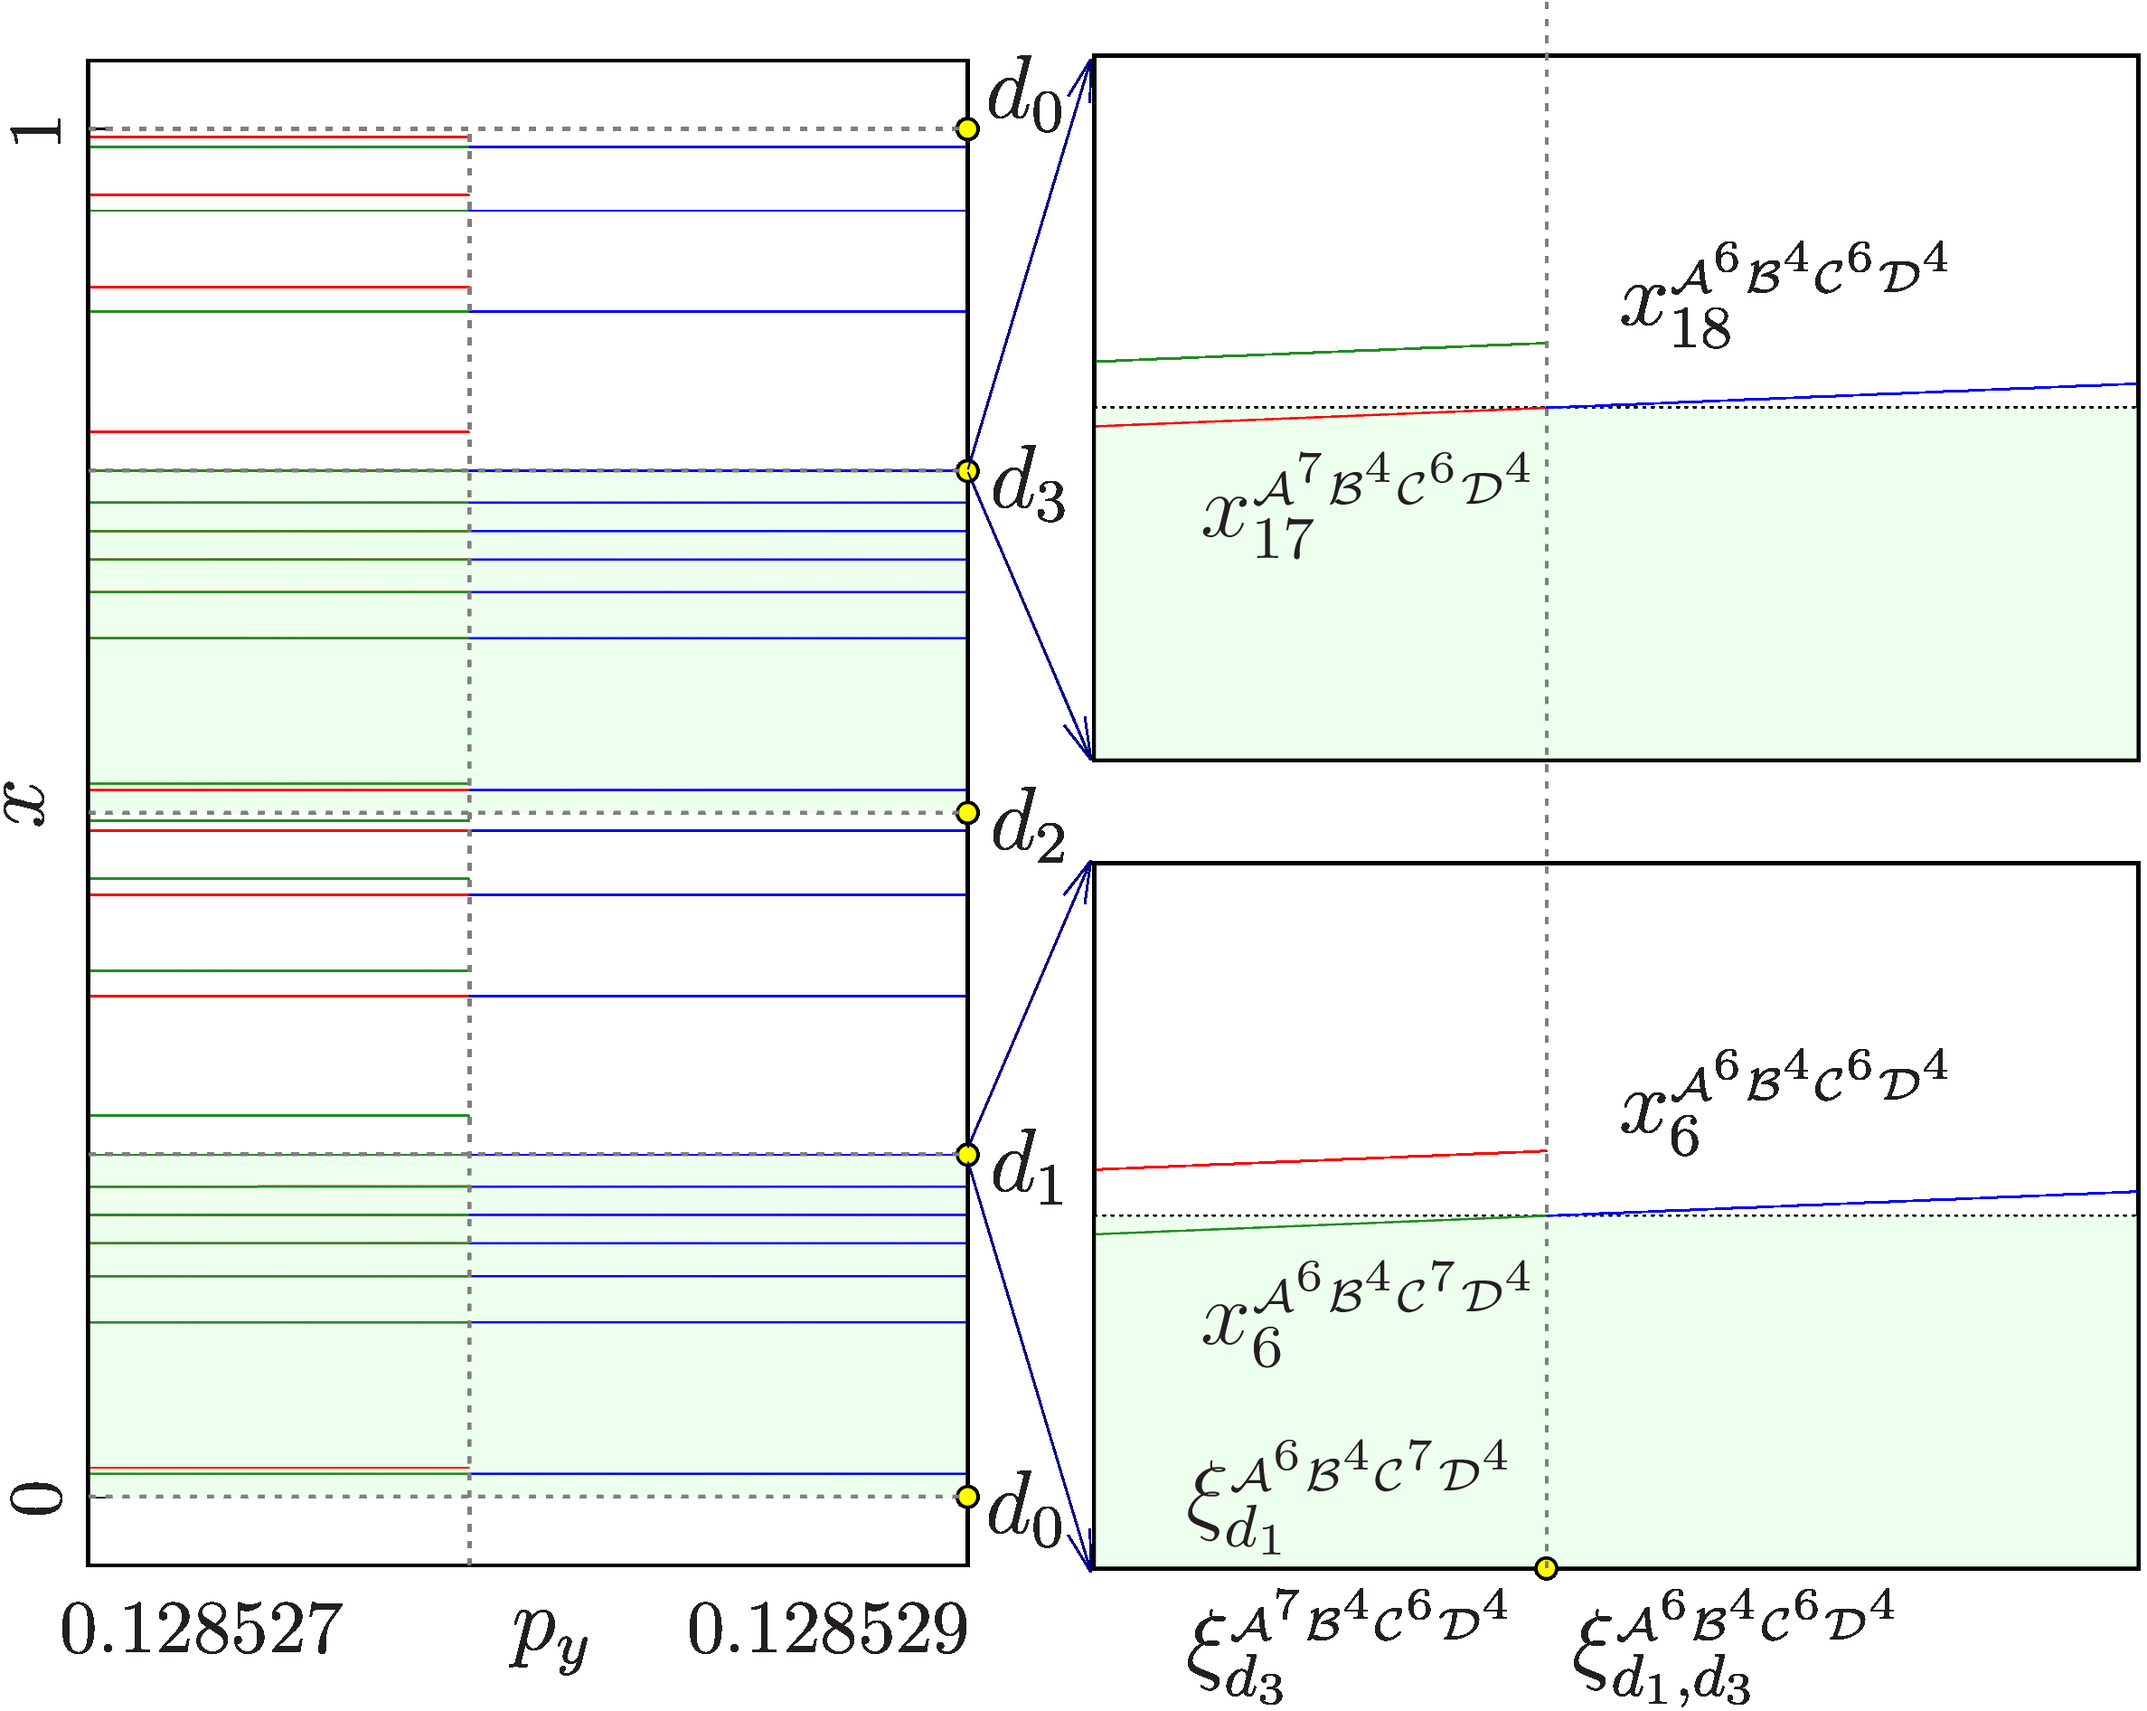
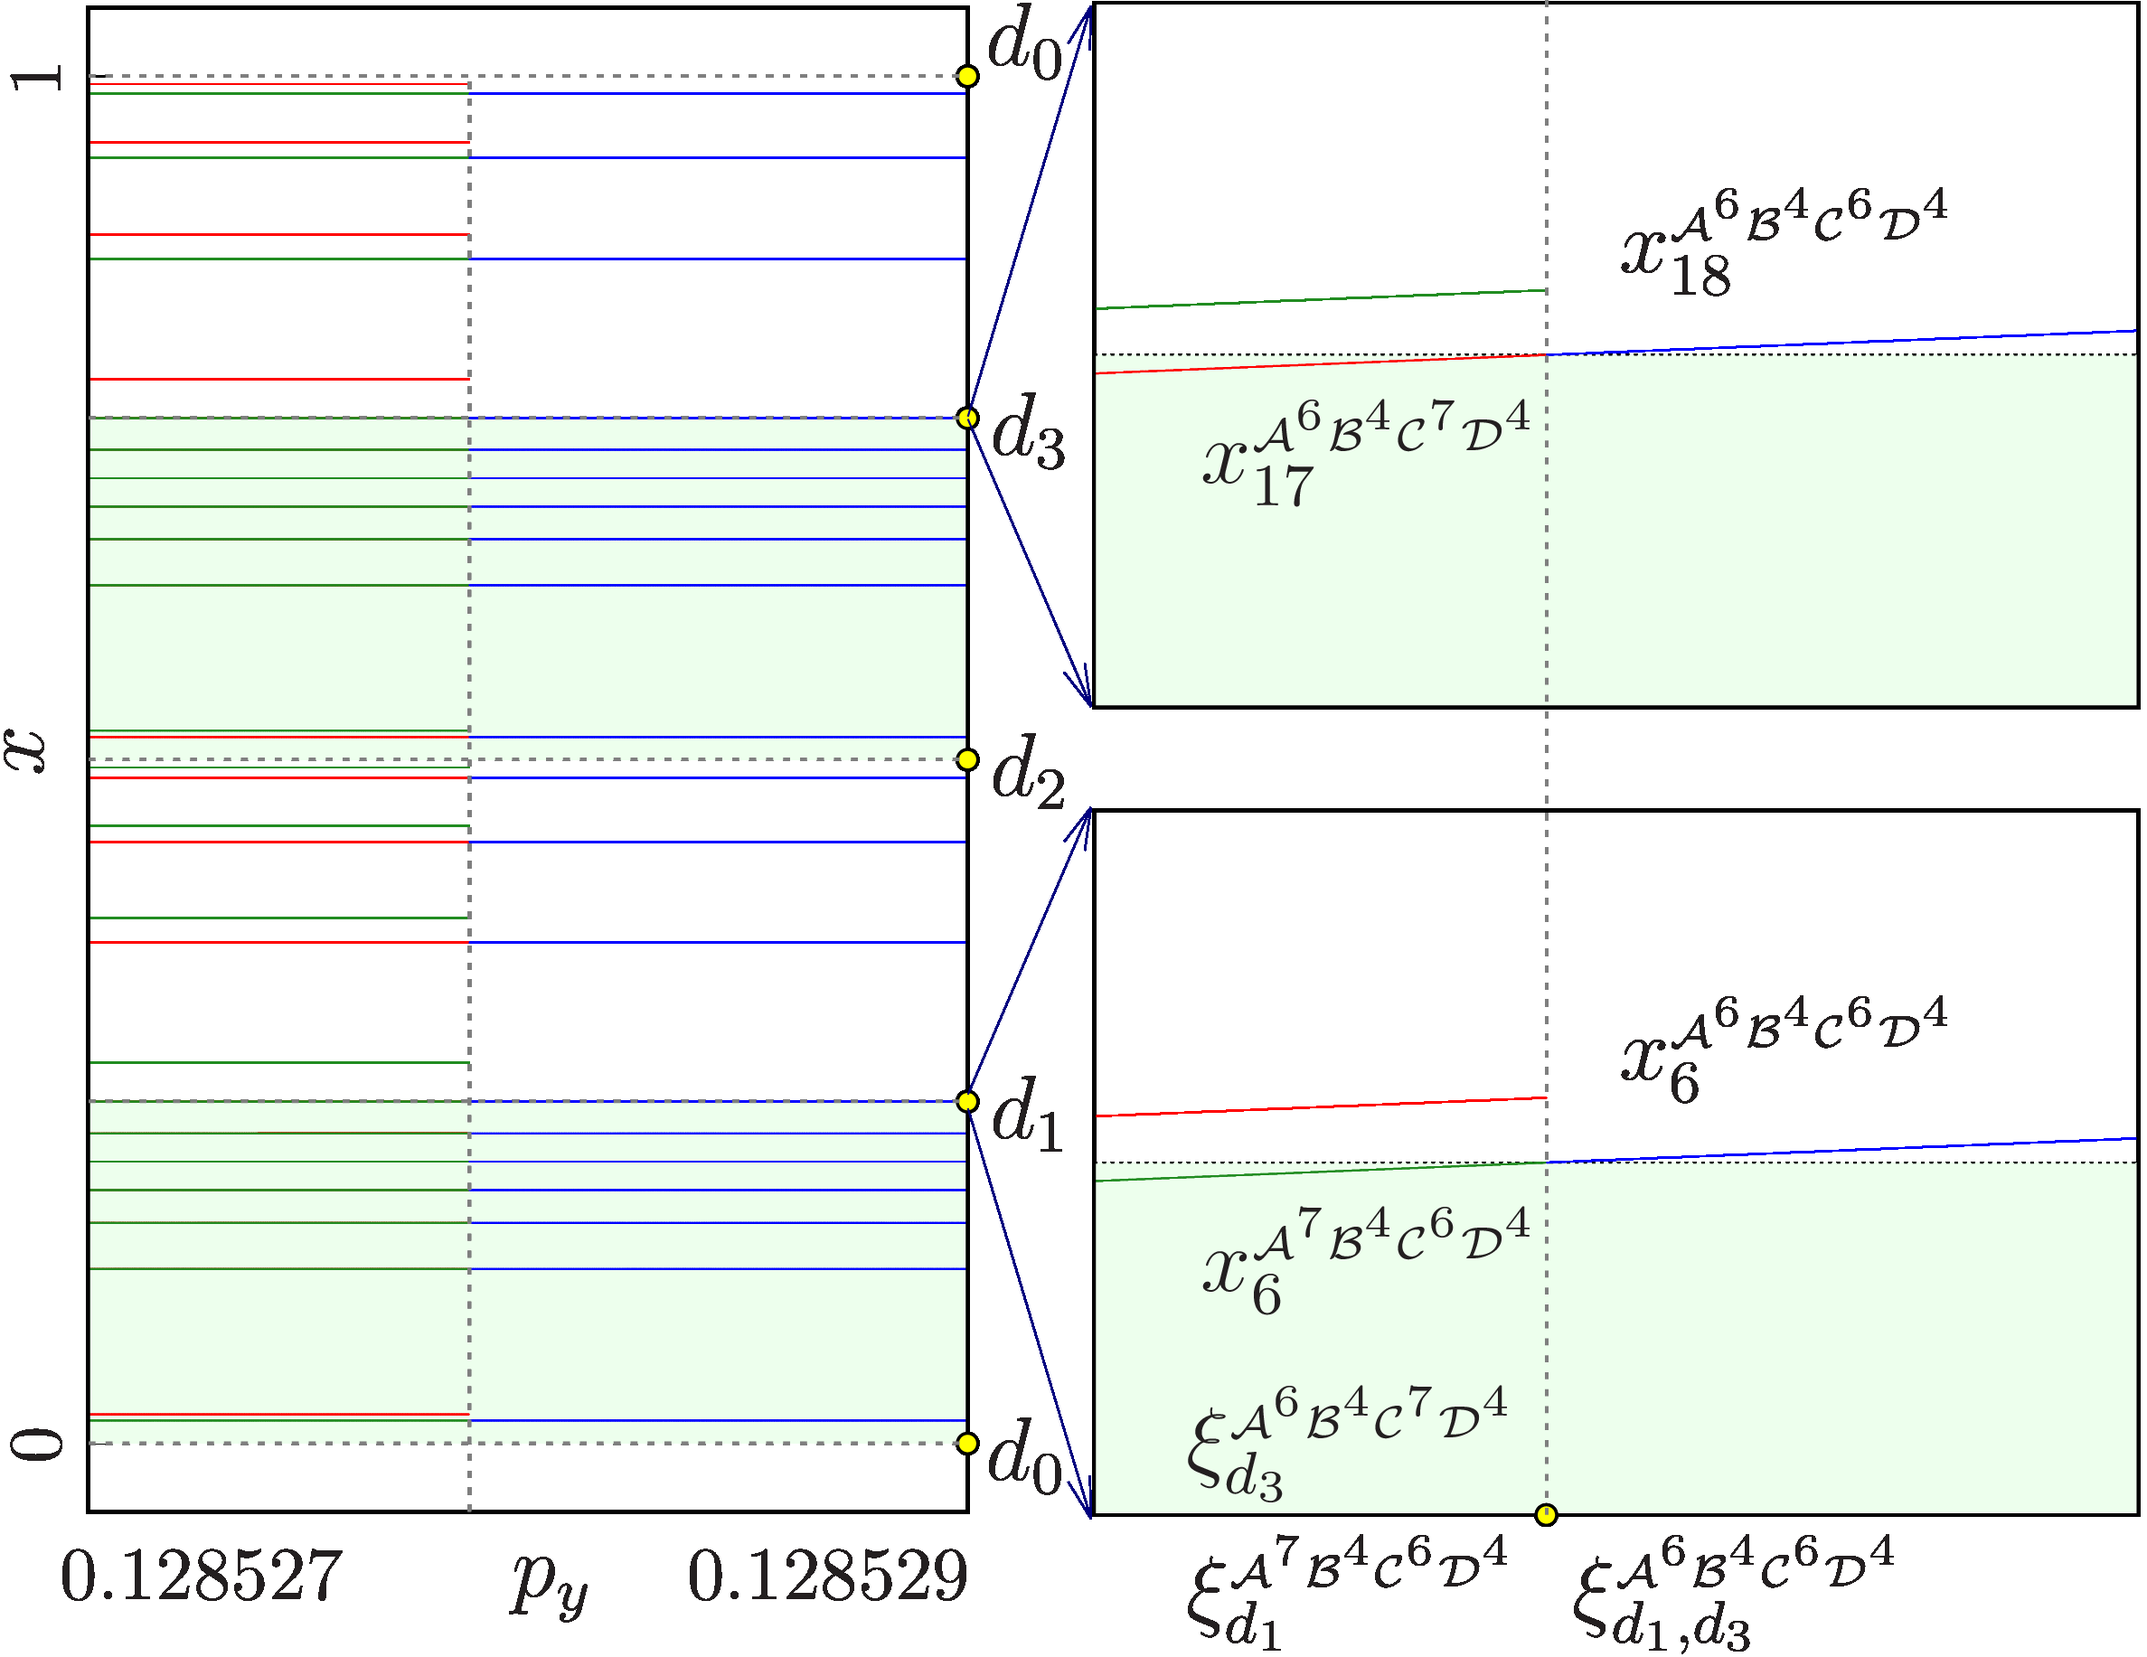
start writing about appearing horizontal period adding

diff --git a/Report/Sections/70_Adding/12_app_add.tex b/Report/Sections/70_Adding/12_app_add.tex
@@ -7,13 +7,45 @@
     }
     \subfloat[Point $A$]{
         \includegraphics[width=.3 \textwidth]{62_MinimalRepr_Adding/Cob_2.8_add_hor_A/Manual/result.png}
+        \label{fig:minrep.add.app.hor.A}
     }
     \subfloat[Point $B$]{B}
-    \caption{bla}
+    \caption{Appearance of the horizontal period-adding cascade}
 \end{figure}
+
+At point $A$ there is space between the two ``type A'' parameter regions $P_{11}^{4}$ and $P_{10}^{4}$, which overlap at point $B$.
+This space opens up more as we change the parameters as described in \Cref{sec:minrep.adding.disapp.typeB}.
+Here will be the horizontal period adding region.
+\Cref{fig:minrep.add.app.hor.A} shows the cobweb diagram at this point.
+The two coexisting cycles $\Cycle{\A^7\B^4\C^6\D^4}$ and $\Cycle{\A^6\B^4\C^7\D^4}$ are asymmetrical like in ``type B'' parameter regions.
+But they are different from ``type B'' cycles because they are not of the form $\Cycle{\A^a\B^b\C^{a-1}\D^{b+1}}$ and $\Cycle{\A^{a-1}\B^{b+1}\C^a\D^b}$, but of the form $\Cycle{\A^a\B^b\C^{a-1}\D^b}$ and $\Cycle{\A^{a-1}\B^b\C^a\D^b}$.
+
+If we interpret these cycles in the context of the halved model, this is the first stage of the period-adding cascade.
+The two ``type A'' cycles $P_{11}^4$ and $P_{10}^4$ are $\Cycle{\L^7\R^4}$ and $\Cycle{\L^6\R^4}$ in the context of the halved model and the cycles at point $A$ are both $\Cycle{\L^7\R^4\L^6\R^4} \equiv \Cycle{\L^6\R^4\L^7\R^4}$ in the context of the halved model.
+
+In \Cref{sec:minrep.adding.disapp.typeB} we noted, that the asymmetry of the ``type B'' cycles is caused by the negative slope of the function at the left border of branches $f_\A$ and $f_\C$.
+Since this maps the cycle that starts further left to the right side of the other cycle.
+\todo{
+    explain better: diff number of points on branches B and D each (type B) therefore reordering necessary for asymm.
+    here same number of points so there may be no reordering for asymm
+}
+This is not the case for the cycles at this point, both cycles start at a point on the branch $f_\A$ with a positive slope and therefore keep the same order.
+\todo{positive slope important for period adding!}
 
 \begin{figure}
     \centering
     \includegraphics[width=.7 \textwidth]{62_MinimalRepr_Adding/1D_Bif_2.8_add_hor_AU/Manual/result.png}
-    \caption{bla}
+    \caption{Bifurcation diagram at the upper boundary of $P_{10}^4 \oplus P_{11}^4$}
+    \label{fig:minrep.add.app.hor.bif.AU}
 \end{figure}
+
+
+\Cref{fig:minrep.add.app.hor.bif.AU} show the bifurcations at the top of the parameter region of the first period-adding stage.
+The bifurcation of the ``type A'' cycle $P_{10}^4 \equiv \A^6\B^4\C^6\D^4$ is as expected a collision with borders $d_1$ and $d_3$ at the same time from the right side, $\BCB_{d_1, d_3}^{\A^6\B^4\C^6\D^4, r}$.
+This was described in \Cref{sec:minrep.bif.U}.
+The bifurcations of the asymmetrical cycles are very similar to the bifurcations of the ``type B'' cycles in that section.
+The cycle with more points on branch $f_\A$, $\Cycle{\A^5\B^3\C^4\D^4}$, collided with the border $d_1$ and its twin, $\Cycle{\A^4\B^4\C^5\D^3}$, collided with the border $d_3$.
+Both collide at the same time and from the left.
+Here, the cycle with more points on branch $f_\A$, $\Cycle{\A^7\B^4\C^6\D^4}$, also collides with the border $d_1$ and its twin, $\Cycle{\A^6\B^4\C^7\D^4}$, collides with the border $d_3$.
+Both collisions happen at the same time from the left.
+Therefore the bifurcations are $\BCB_{d_1}^{\A^7\B^4\C^6\D^4, l}$ and $\BCB_{d_1}^{\A^6\B^4\C^7\D^4, l}$.

diff --git a/Report/Sections/60_MinimalRepr/50_bifurcations.tex b/Report/Sections/60_MinimalRepr/50_bifurcations.tex
@@ -149,6 +149,7 @@ Therefore, we only need to describe the 4 boundaries of this ``type B'' paramete
 %The boundaries are enumerated as $F_{16}^\uparrow, F_{16}^\rightarrow, F_{16}^\downarrow,$ and $F_{16}^\leftarrow$.
 
 \subsubsection{The Boundary $F_{16}^\uparrow$}
+\label{sec:minrep.bif.U}
 
 \Cref{fig:final.bifurcation.F.up} shows the bifurcation diagram of the first considered border, $F_{16}^\uparrow$.
 The two existing stable cycles at the beginning are drawn in different colors to differentiate them.
@@ -177,6 +178,7 @@ The bifurcation is denoted as $\BCB_{d_1, d_3}^{\A^4\B^4\C^4\D^4}$.
 \end{figure}
 
 \subsubsection{The Boundary $F_{16}^\downarrow$}
+\label{sec:minrep.bif.D}
 
 At the lower boundary $F_{16}^\downarrow$, the two cycles $\Cycle{\A^5\B^3\C^4\D^4}$ and $\Cycle{\A^4\B^4\C^5\D^3}$ also collide with the borders $d_1$ and $d_3$, this time from above rather than from below.
 But while the cycle $\Cycle{\A^5\B^5\C^4\D^4}$ collided with the border $d_1$ at the upper boundary, it now collides with the border $d_3$.
@@ -203,6 +205,7 @@ The cycles collide with the same borders, but the side from which they collide a
 \end{figure}
 
 \subsubsection{The Boundary $F_{16}^\rightarrow$}
+\label{sec:minrep.bif.R}
 
 Now we will take a look at the horizontal boundaries of this ``type B'' parameter region.
 At the right boundary $F_{16}^\rightarrow$, the two cycles $\Cycle{\A^5\B^3\C^4\D^4}$ and $\Cycle{\A^4\B^4\C^5\D^3}$ collide with the borders $d_0$ and $d_2$ from above.
@@ -225,6 +228,7 @@ This bifurcation is denoted as $\BCB_{d_0, d_2}^{\A^5\B^4\C^5\D^4}$.
 \end{figure}
 
 \subsubsection{The Boundary $F_{16}^\leftarrow$}
+\label{sec:minrep.bif.L}
 
 At the left boundary $F_{16}^\leftarrow$, the two cycles $\Cycle{\A^5\B^3\C^4\D^4}$ and $\Cycle{\A^4\B^4\C^5\D^3}$ collide with the same borders as before, but this time from below.
 The point $x_{7}^{\A^4\B^4\B^5\D^3}$, which is on branch $f_{\B}$, collides with $d_2$ while the point $x_{15}^{\A^5\B^3\C^4\D^4}$, which is on branch $f_{\D}$, colides with the border $d_0$.
